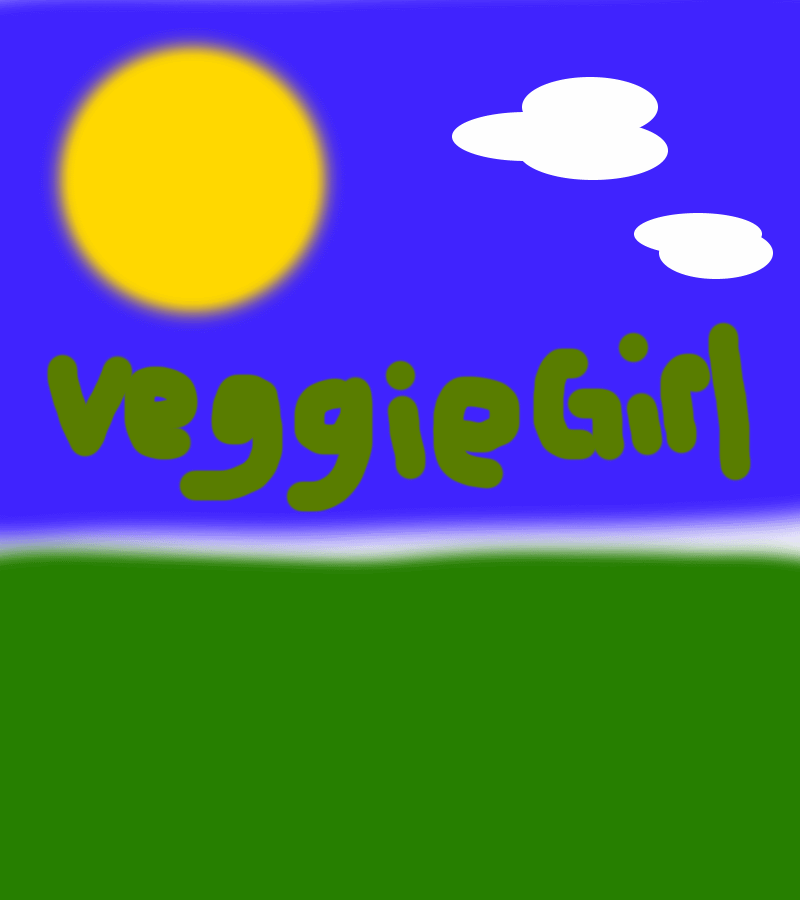
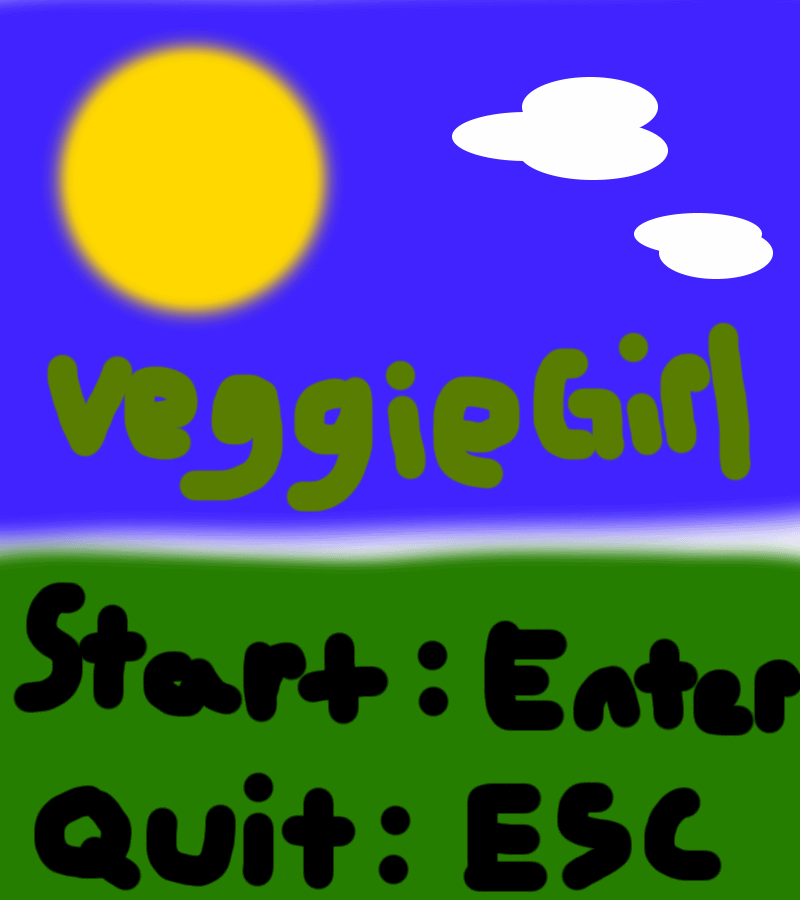
fixed title image and fixing the programming

diff --git a/Game.py b/Game.py
@@ -29,7 +29,7 @@ pygame.display.set_caption("Veggie Girl")
 
 screens = "menu"
 while True:
-    image = pygame.image.load("Images/Backgrounds/Temporarytitle.png")
+    image = pygame.image.load("Images/Backgrounds/titlescreen.png")
     imgRect = image.get_rect()
     while screens == "menu":
         for event in pygame.event.get():

diff --git a/Screens.py b/Screens.py
@@ -1,4 +1,4 @@
 def TitleScreen(debug = False):
     if debug: print("TitleScreen Function")
     
-    backgroundImage = (r"C:)
+    backgroundImage = (r"C:\Users\Student\Documents\Game Programming\Veggie Girl\Images\Backgrounds\titlescreen.png")

diff --git a/Steak.py b/Steak.py
@@ -1,1 +1,1 @@
- import pygame, sys, math, random
+import pygame, sys, math, random
